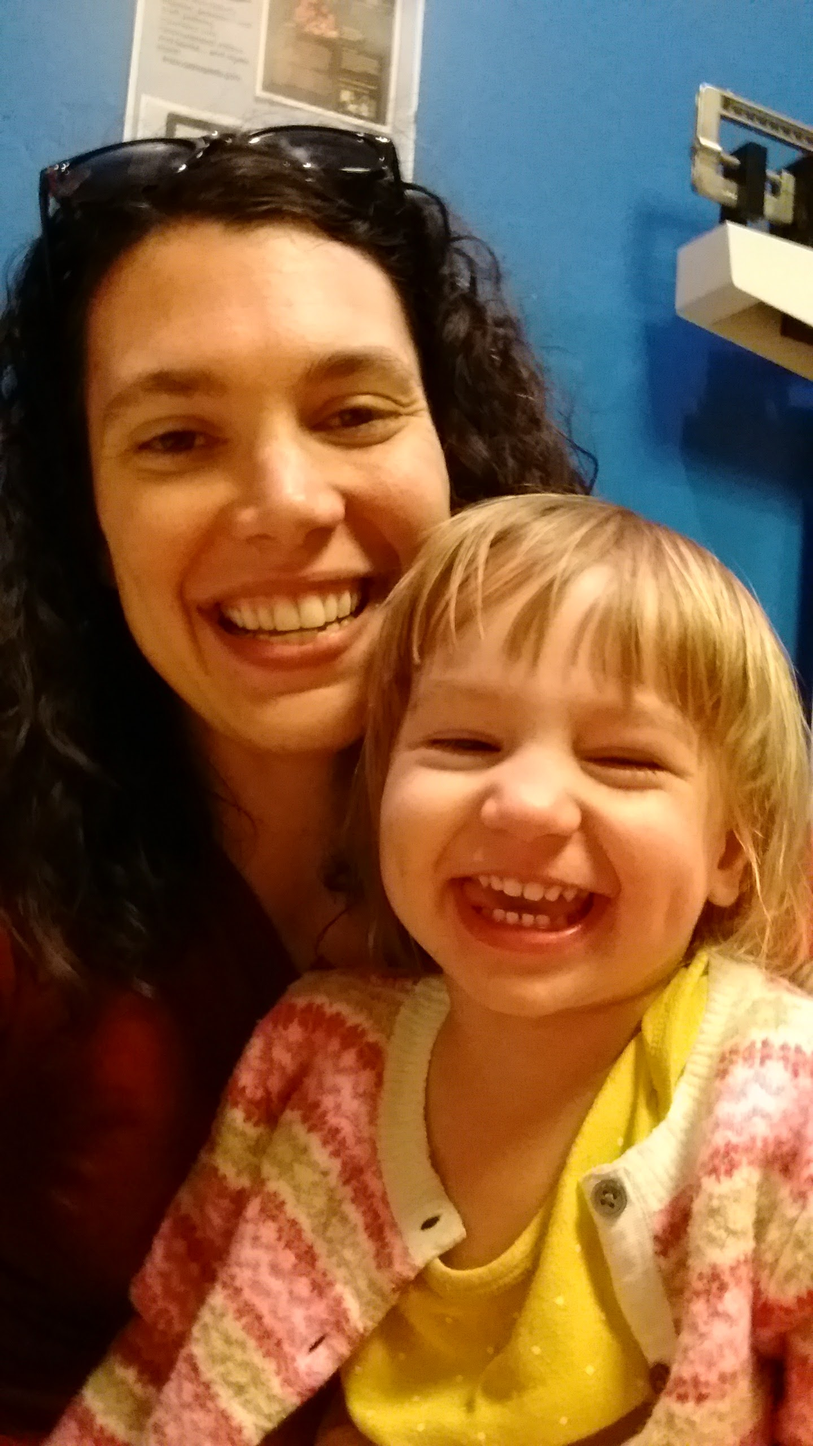
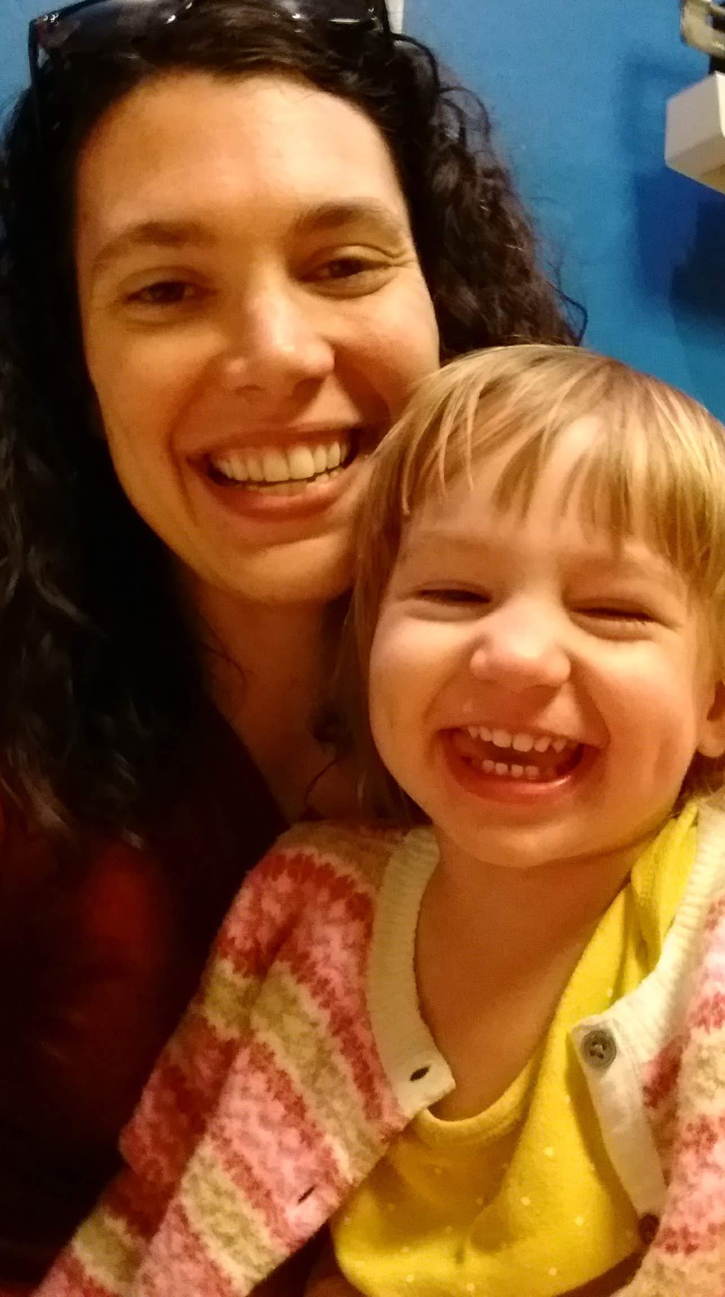
modified picture

diff --git a/README.md b/README.md
@@ -82,5 +82,5 @@ If you want more help, check out the [resource list](https://github.com/gaiusjau
 ![](plots/gaius.jpg)
 [Gaius Augustus](http://www.gaiusjaugustus.com)
 
-![](plots/lizB.jpg = 50x10)
+![](plots/lizB.jpg)
 Elizabeth Bowman
